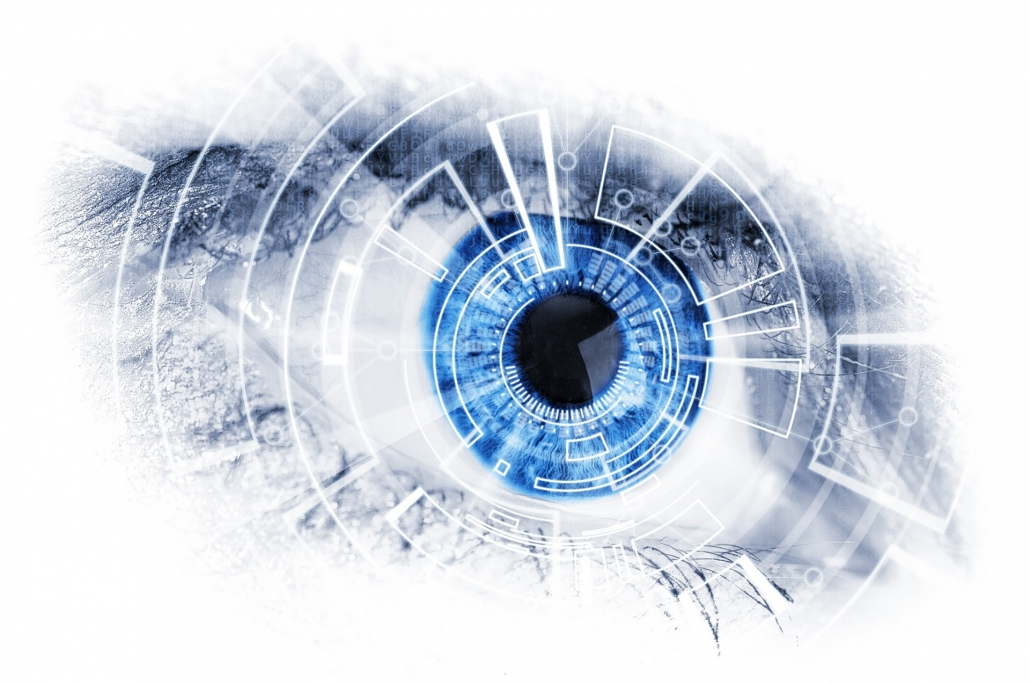
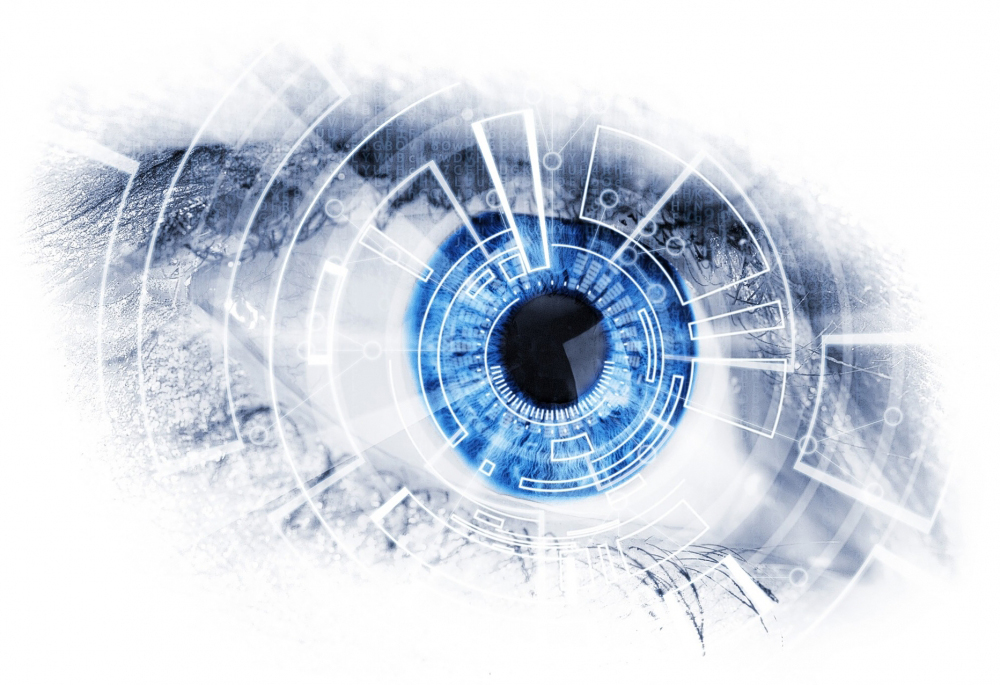
Main page slideshow and animation complete

Changed region(s): [[0.031, 0.1533, 0.961, 0.9504]]

diff --git a/index.html b/index.html
@@ -4,7 +4,7 @@
   <meta charset="UTF-8">
   <meta name="viewport" content="width=device-width, initial-scale=1.0">
   <link href="https://cdn.jsdelivr.net/npm/bootstrap@5.3.0/dist/css/bootstrap.min.css" rel="stylesheet" integrity="sha384-9ndCyUaIbzAi2FUVXJi0CjmCapSmO7SnpJef0486qhLnuZ2cdeRhO02iuK6FUUVM" crossorigin="anonymous">
-  <title>Responsive Navbar</title>
+  <title>8x ventures</title>
   <style>
 
     .navbar {
@@ -12,7 +12,6 @@
       top: -100px;
       left: 0;
       width: 100%;
-      
       background-color: white;
       transition: top 0.3s ease-in-out;
     }
@@ -95,7 +94,8 @@
       opacity: 0;
       animation: appear 2.0s ease-in-out forwards;
       font-size: large;
-      
+      padding-left: 20px;
+      padding-right: 20px;
       color: #565659;
     }
 
@@ -105,8 +105,8 @@
       font-size: medium;
     }
 
-    background-image-zoom {
-  animation: zoomAnimation 2s infinite alternate;
+    .background-image-zoom {
+  animation: zoomAnimation 2s alternate;
 }
 
 .social-media {
@@ -168,10 +168,10 @@
 
 @keyframes zoomAnimation {
   0% {
-    transform: scale(1);
+    transform: scale(0.9);
   }
   100% {
-    transform: scale(2);
+    transform: scale(1);
   }
 }
 
@@ -213,7 +213,7 @@
   </div>
 
 
-  <nav class="navbar navbar-expand-lg navbar-light " style="padding-top:20px ; padding-bottom: 20px;">
+  <nav class="navbar navbar-expand-lg navbar-light fixed-top" style="padding-top:20px ; padding-bottom: 20px;">
     <div class="container">
       <a class="navbar-brand navbar-logo" href="#"><img src="/ImageAssets/8X Logo High Resolution.png" alt="Company logo" width="180px"></a>
       <button class="navbar-toggler" type="button" data-bs-toggle="collapse" data-bs-target="#navbarNav" aria-controls="navbarNav" aria-expanded="false" aria-label="Toggle navigation">
@@ -248,7 +248,7 @@
           <div class="row">
             <div class="col-md text-center background-image-zoom">
               <img src="/ImageAssets/DeepTechEye.jpg
-              " alt="Slide 1"  style="object-fit: fill;width: 100%;height: auto;">
+              " alt="Slide 1"  style="object-fit: fill;width: 100%;height: auto">
             </div>
             <div class="col-md text-center my-auto">
                 <div class="slide-title">
@@ -274,7 +274,7 @@
             <div class="col-md text-center my-auto">
                 <div class="slide-title">
                   <br/>
-                  Transforming visions into reality 2
+                  Fueling the Extraordinary
                 </div><br/>
 
                 <div class="slide-subtitle ">
@@ -289,13 +289,14 @@
         <div class="slide">
           <div class="row">
             <div class="col-md text-center background-image-zoom">
-              <img src="/ImageAssets/DeepTechEye.jpg
-              " alt="Slide 1"  style="object-fit: fill;width: 100%;height: auto;">
+              <img src="/ImageAssets/lightbulbv2.png
+              " alt="Slide 1"  style="object-fit:cover;object-position: 30% 150; width: 100%;height: 450px; ">
+              
             </div>
             <div class="col-md text-center my-auto">
                 <div class="slide-title">
                   <br/>
-                  Transforming visions into reality 3
+                  Fostering tomorrow's possibilities
                 </div><br/>
 
                 <div class="slide-subtitle ">
@@ -384,7 +385,7 @@
           slideIndex = 1;
         }
         slides[slideIndex - 1].style.display = "block";
-        setTimeout(showSlides, 8000); // Change slide every 3 seconds
+        setTimeout(showSlides, 3000); // Change slide every 3 seconds
       }
     });
   </script>
@@ -418,6 +419,9 @@ function fadeOutOnScroll(element) {
   opacity = (1 - (scrollTop ) / elementHeight)*0.7;
   if (opacity >= 0) {
     element.style.opacity = opacity;
+  }
+  if(scrollTop>160){
+    opacity=0;
   }
 }
 
